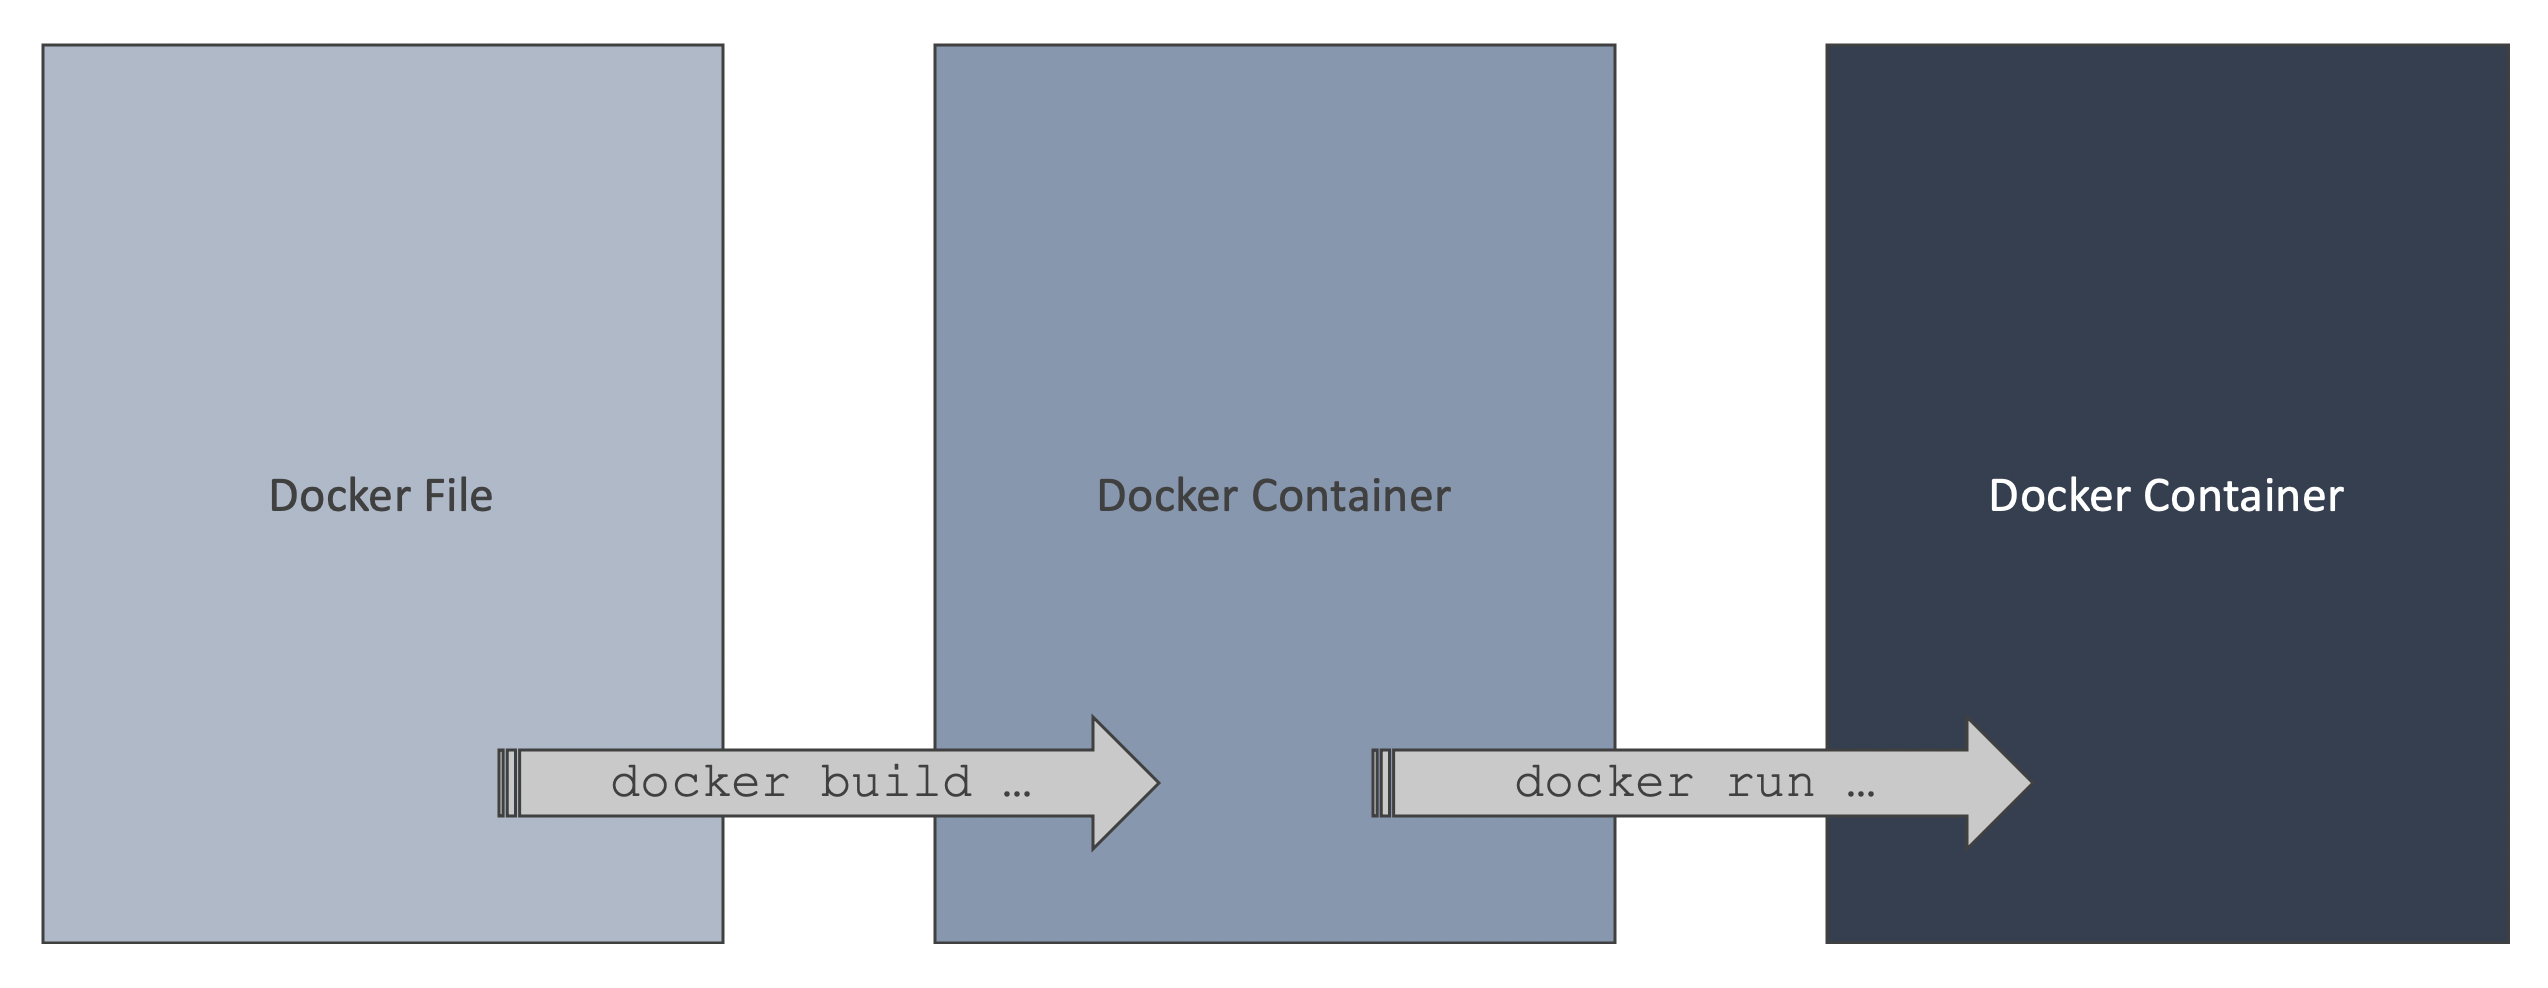
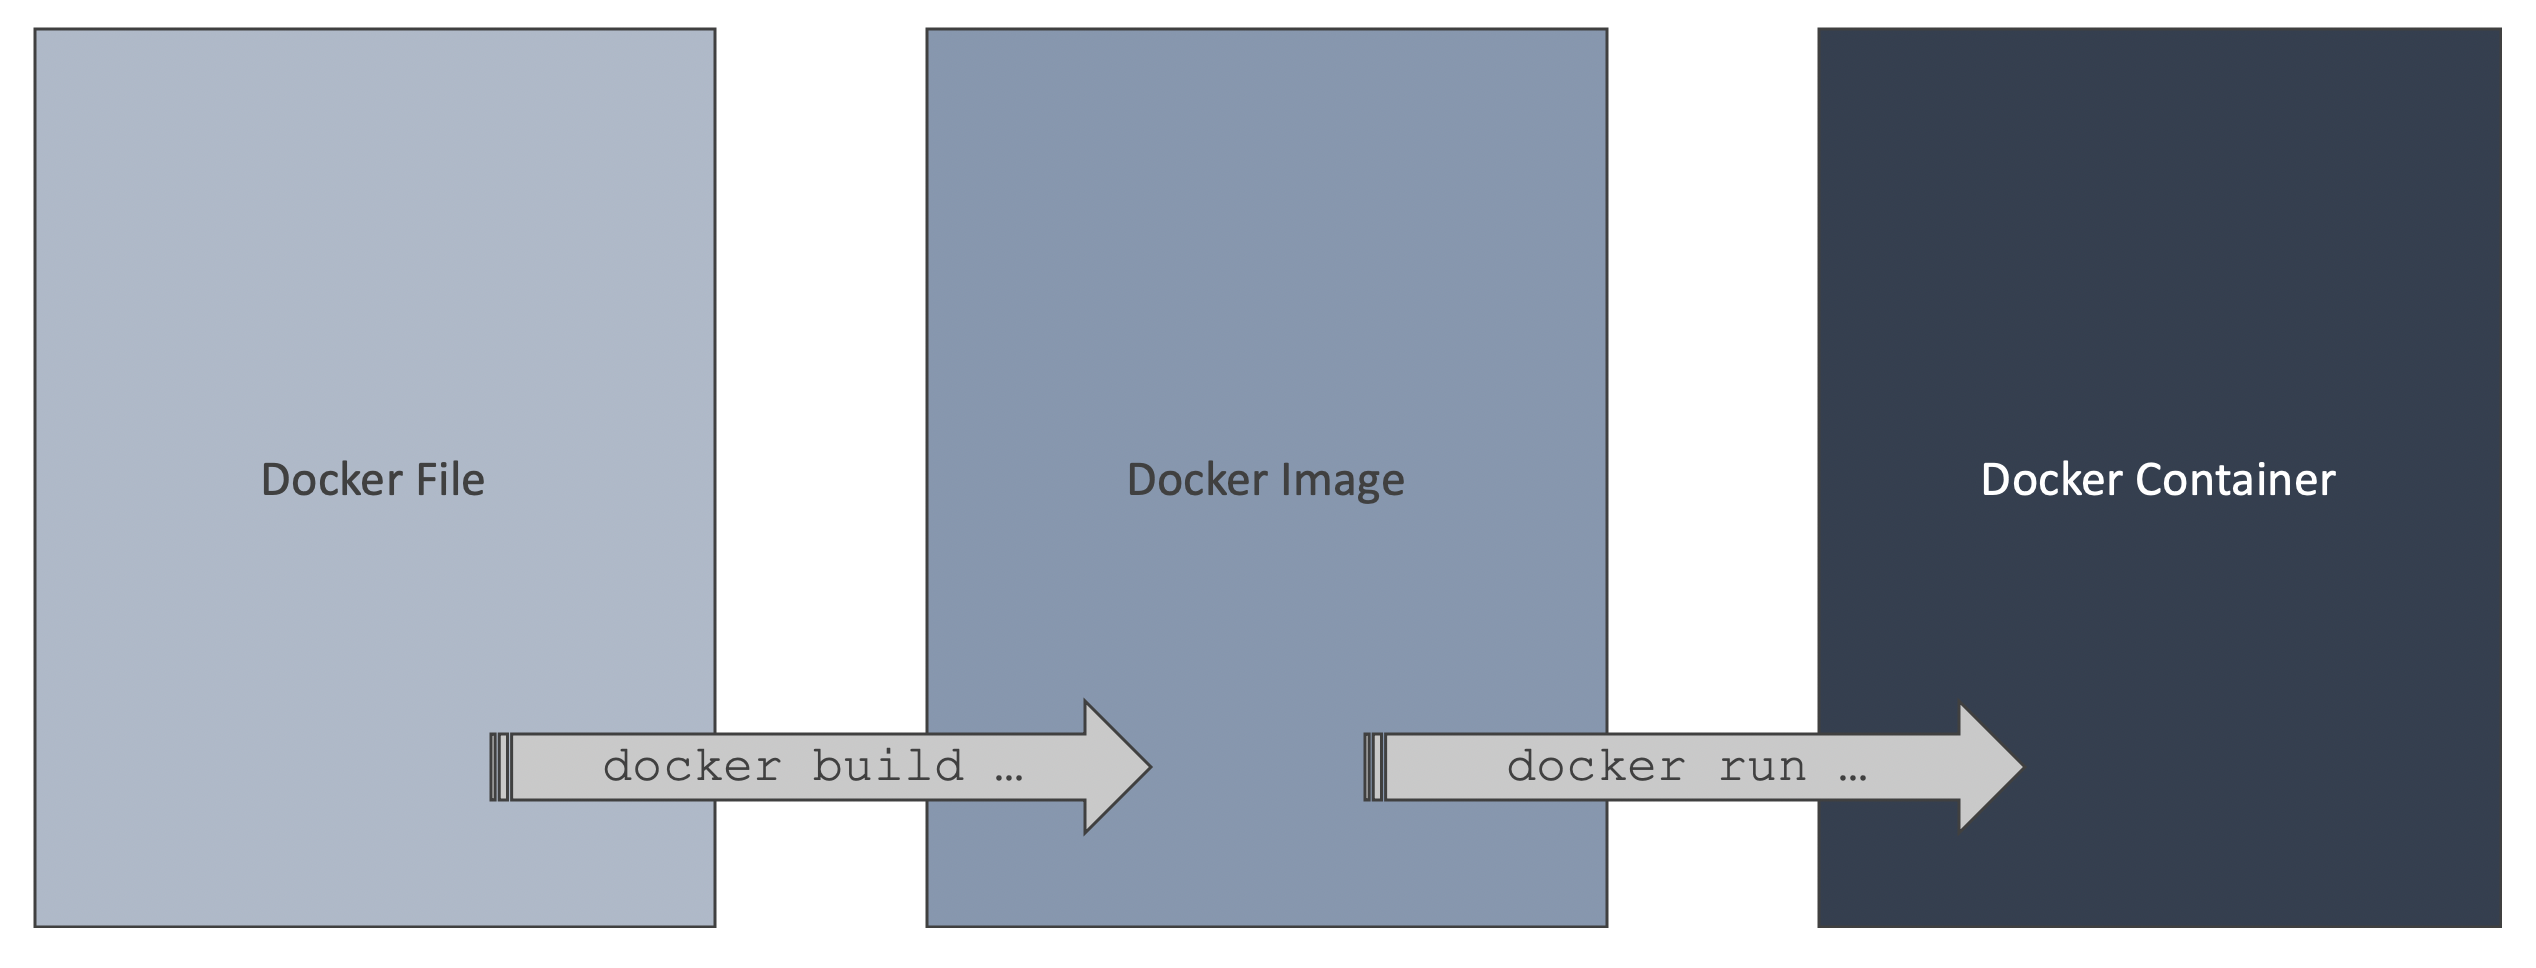
Update presentation...

diff --git a/template/style.scss b/template/style.scss
@@ -53,8 +53,8 @@ blockquote {
 // Remark base
 // ---------------------------------------------------------------------------
 
-.remark-code { font-size: .7em; font-family: monospace }
-.remark-inline-code { font-size: 1em; font-family: monospace }
+.remark-code { font-size: .8em; font-family: monospace }
+.remark-inline-code { font-size: .9em; font-family: monospace }
 .remark-container { background: $dark; }
 .remark-slide-scaler { box-shadow: none; }
 .remark-notes { font-size: 1.5em; }

diff --git a/2020-08-18-presentation-remote-meetup.md b/2020-08-18-presentation-remote-meetup.md
@@ -75,11 +75,15 @@ class: impact
 
 # What is a docker image?
 
-- A docker image is a file-system that contains
+- A docker image is a **read-only** file-system that contains
 
   - The operating system
   - The programs needed by the application, such as the Java Runtime Environment
   - The application executable, dependencies, and configuration
+
+- A docker image is immutable and cannot be modified once built
+
+- A new docker image is created every time a new version of our application is dockerized
 ---
 
 # How do create a docker image?
@@ -89,6 +93,8 @@ class: impact
   ```bash
   $ docker build . -t boot-fat-jar:local
   ```
+
+  The above command creates a docker image and tags it as `boot-fat-jar:local`
 
 - We can run the docker image (creating a docker container) once this is built
 
